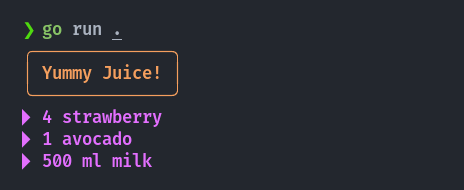
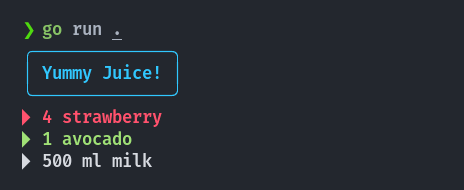
Update List section in readme

diff --git a/Readme.md b/Readme.md
@@ -74,37 +74,18 @@ cute.Printf("Another title", "%s, a Country in North Africa.\n", "Morocco")
 <img src="./screenshots/05.png" alt="printf" width=500/>
 
 ## List
-You can print a list of lines dynamically!
+You can print a list of lines dynamically! You can also specify the color for each line:
 
 ```go
-list := cute.NewList("Yummy Juice!")
-list.Add("4 strawberry")
-list.Add("1 avocado")
-list.Addf("%d ml %s", 500, "milk")
+// juice recipe 🧃
+list := cute.NewList(cute.ColorBrightBlue, "Yummy Juice!")
+list.Add(cute.ColorBrightRed, "4 strawberry")
+list.Add(cute.ColorBrightGreen, "1 avocado")
+list.Addf(cute.ColorWhite, "%d ml %s", 500, "milk")
 list.Print()
 ```
 
-<img src="./screenshots/06.png" alt="print list" width=500/>
-
-You can also specify the color message for each line:
-
-```go
-cute.SetTitleColor(cute.ColorBrightBlue)
-list := cute.NewList("Yummy Juice!")
-
-cute.SetMessageColor(cute.ColorBrightRed)
-list.Add("4 strawberry")
-
-cute.SetMessageColor(cute.ColorBrightGreen)
-list.Add("1 avocado")
-
-cute.SetMessageColor(cute.ColorWhite)
-list.Addf("%d ml %s", 500, "milk")
-
-list.Print()
-```
-
-<img src="./screenshots/07.png" alt="print list with colors" width=500/>
+<img src="./screenshots/06.png" alt="print list with colors" width=500/>
 
 ## Real example
 [Tarjem](https://github.com/zakaria-chahboun/tarjem) is used our cute package, Here are some examples:
